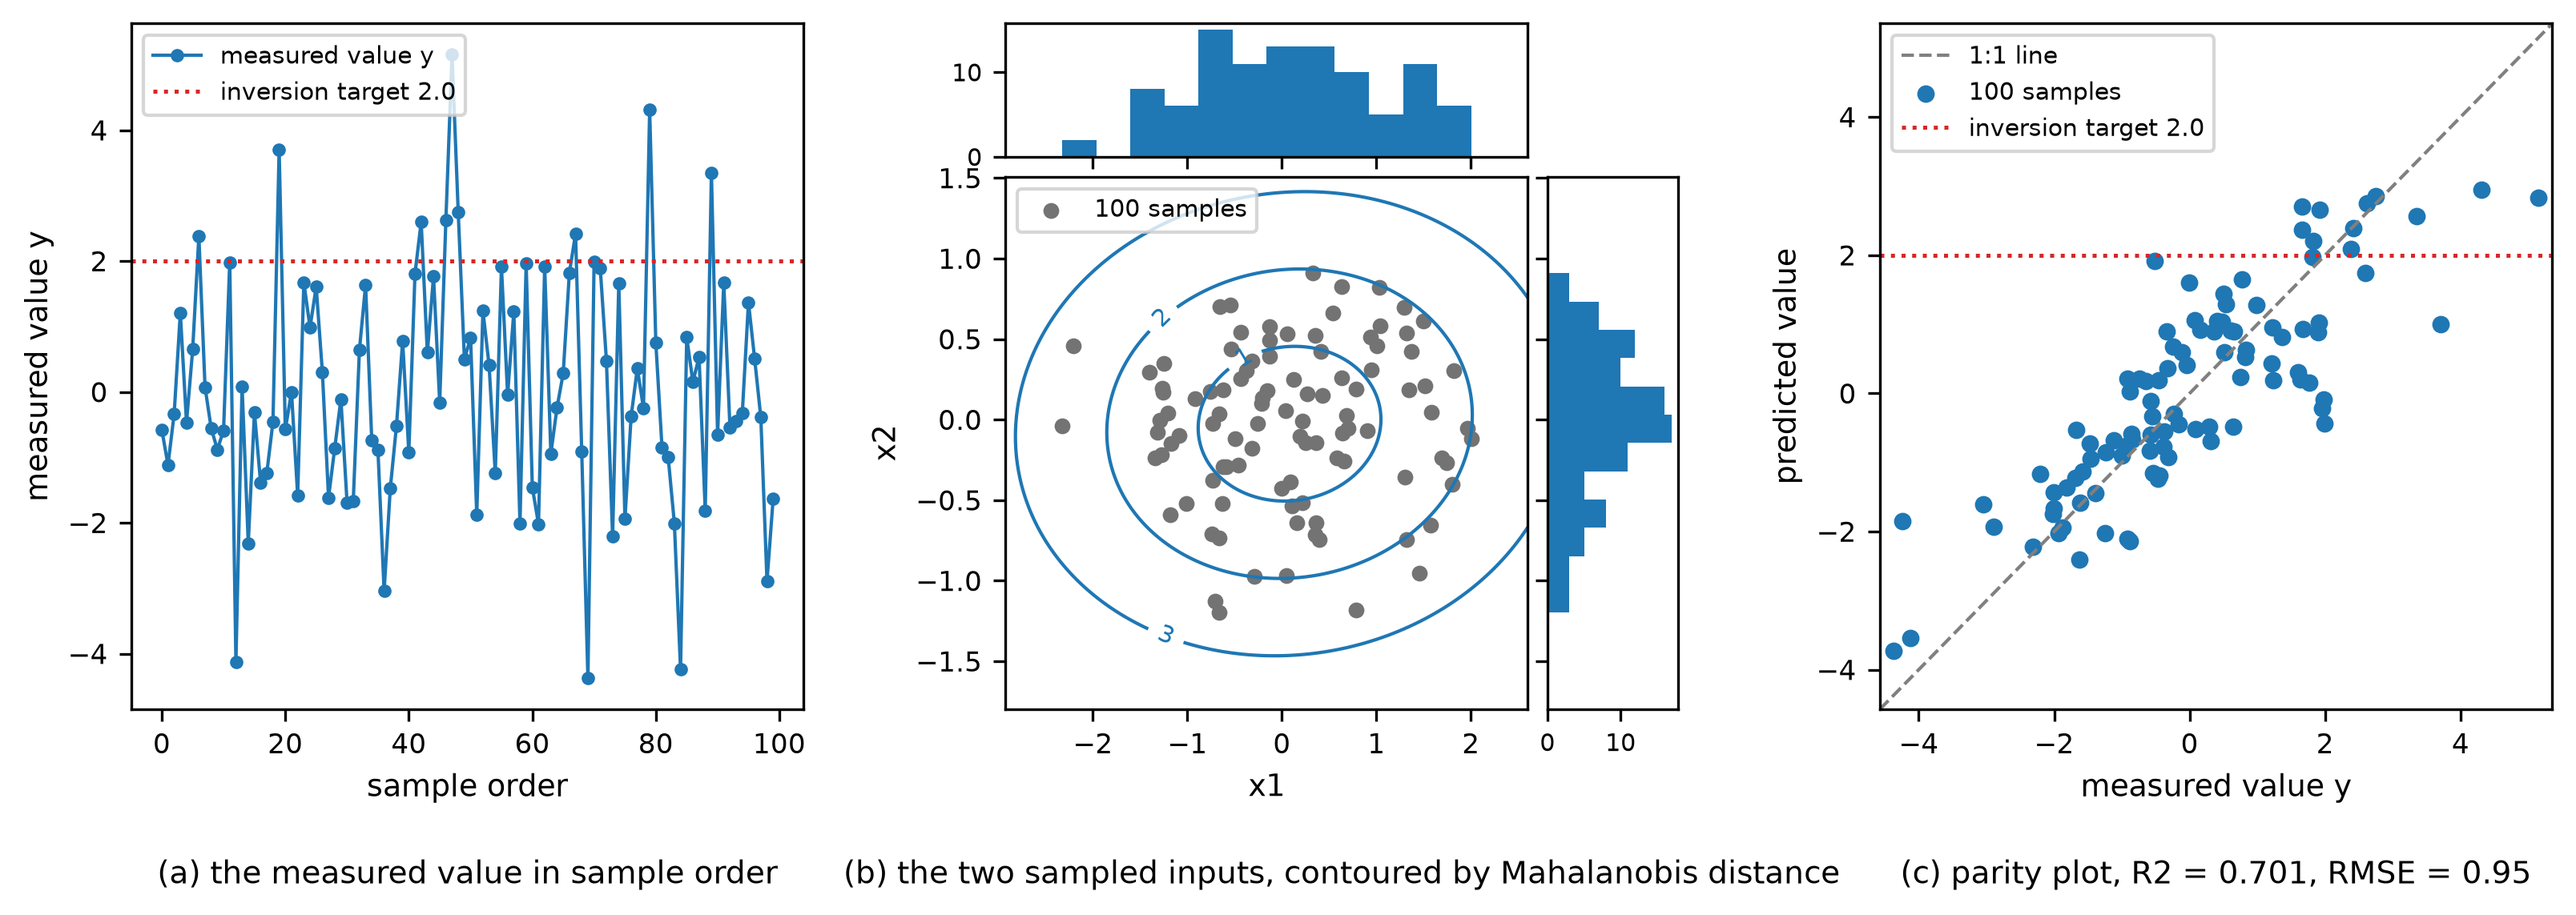
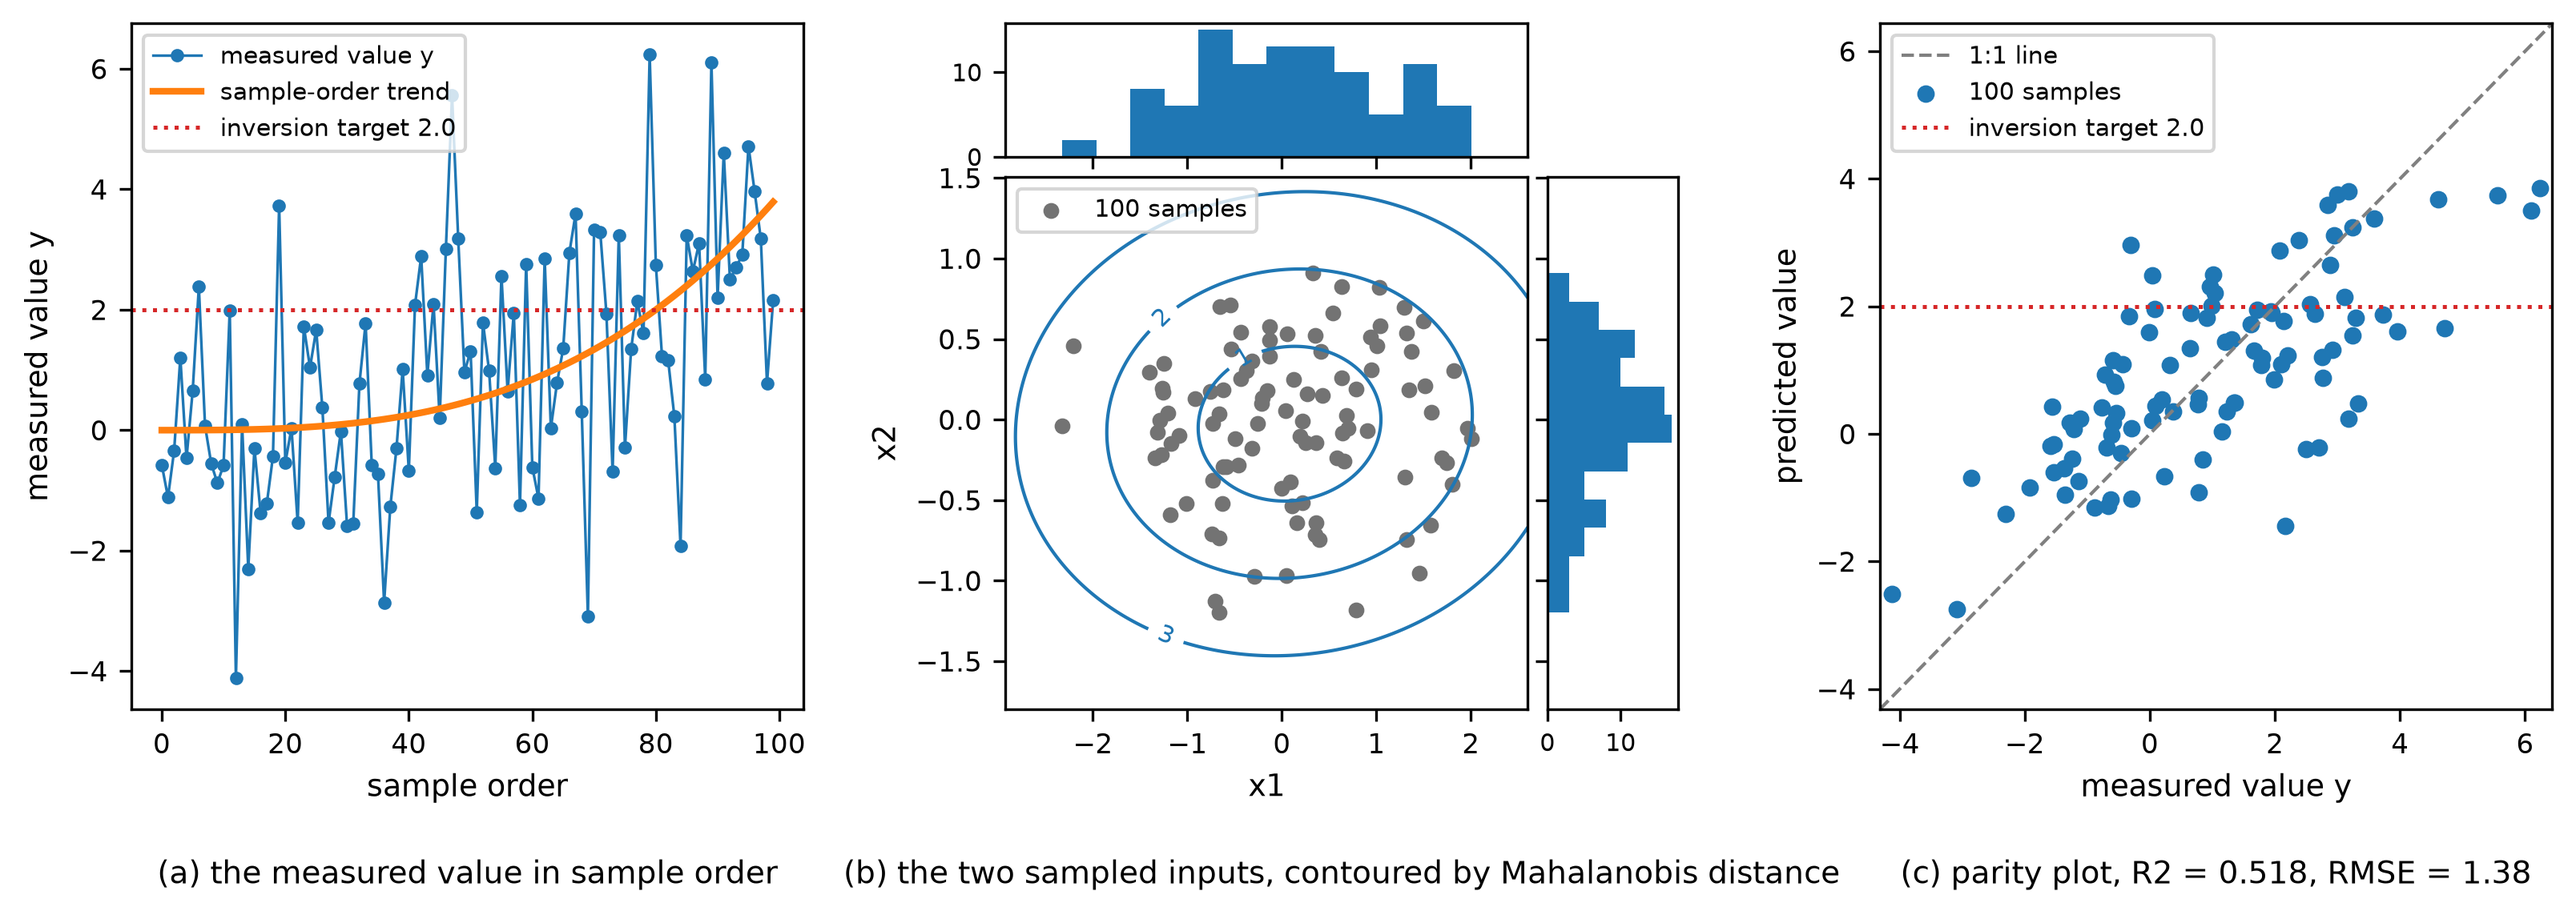
docs(Inversion-Problem): let the measured value drift with the sample order
The series was flat noise and said nothing. It now climbs with the cube of
the sample order, crossing the inversion target around sample 80, and the
trend is drawn over it. The inputs carry no such term, so the drift lands
in the residual and the parity plot falls to R2 0.518 — which is the point
the paragraph beside it now makes. Fig 4 and Fig 5 render 800 px wide.

diff --git a/Models/Inversion-Problem/inversion_problem_fig.py b/Models/Inversion-Problem/inversion_problem_fig.py
@@ -1,6 +1,6 @@
 """Draw the Appendix B and Appendix C figures of inversion-problem.md."""
 __author__ = 'yRocket'
-__version__ = "0.5.0.2026.8.29"  # Semantic Versioning: Major.Minor.Patch.Date(YYYY.M.D)
+__version__ = "0.6.0.2026.8.29"  # Semantic Versioning: Major.Minor.Patch.Date(YYYY.M.D)
 
 import argparse
 import pathlib
@@ -41,21 +41,26 @@ def panel_caption(fig, axes_group: list, text: str, y: float = 0.02) -> None:
 
 
 def build_appendix_b_model() -> tuple:
-    """Rebuild the Appendix B data and PLS model. Returns (x_data, y_data, x_mean, y_mean, pls)."""
+    """Rebuild the Appendix B data and PLS model.
+
+    Returns (x_data, y_data, drift, x_mean, y_mean, pls). drift is the part of y that follows
+    the sample order, which the model never sees.
+    """
     rng = np.random.default_rng(0)
     n, n_comp = 100, 2
     # both inputs are centred at 0, x1 spread twice as wide as x2
     x_data = np.column_stack([rng.normal(0.0, 1.0, n), rng.normal(0.0, 0.5, n)])
-    y_data = 1.5 * x_data[:, 0] - 0.8 * x_data[:, 1] + rng.normal(0, 0.85, n)
+    drift = 2.0 * (np.arange(n) / 80.0) ** 3          # reaches the target 2.0 at sample 80
+    y_data = 1.5 * x_data[:, 0] - 0.8 * x_data[:, 1] + drift + rng.normal(0, 0.85, n)
 
     x_mean, y_mean = x_data.mean(axis=0), y_data.mean()
     pls = PLSRegression(n_components=n_comp, scale=False).fit(x_data - x_mean, y_data - y_mean)
-    return x_data, y_data, x_mean, y_mean, pls
+    return x_data, y_data, drift, x_mean, y_mean, pls
 
 
 def fig_3(out_folder: pathlib.Path) -> pathlib.Path:
     """Fig 3: the measured values, the sampled inputs and the parity plot of the forward model."""
-    x_data, y_data, x_mean, y_mean, pls = build_appendix_b_model()
+    x_data, y_data, drift, x_mean, y_mean, pls = build_appendix_b_model()
     y_pred = pls.predict(x_data - x_mean).ravel() + y_mean
     residual = y_data - y_pred
     r2 = 1.0 - float(np.sum(residual ** 2) / np.sum((y_data - y_data.mean()) ** 2))
@@ -72,8 +77,10 @@ def fig_3(out_folder: pathlib.Path) -> pathlib.Path:
     ax_parity = fig.add_subplot(outer[2])
 
     # the measured value in the order the samples arrive
-    ax_series.plot(np.arange(len(y_data)), y_data, color=COLORS[0], linewidth=1.0,
-                   marker='o', markersize=3, label='measured value y')
+    order = np.arange(len(y_data))
+    ax_series.plot(order, y_data, color=COLORS[0], linewidth=0.8, marker='o', markersize=3,
+                   label='measured value y')
+    ax_series.plot(order, drift, color=COLORS[1], linewidth=2.0, label='sample-order trend')
     ax_series.axhline(2.0, color=COLORS[3], linestyle=':', linewidth=1.2,
                       label='inversion target 2.0')
     ax_series.set_xlabel('sample order', fontsize=font_size())
@@ -136,7 +143,7 @@ def fig_3(out_folder: pathlib.Path) -> pathlib.Path:
 
 def fig_4(out_folder: pathlib.Path) -> pathlib.Path:
     """Fig 4: scores moved along the null space keep the predicted value."""
-    x_data, y_data, x_mean, y_mean, pls = build_appendix_b_model()
+    x_data, y_data, drift, x_mean, y_mean, pls = build_appendix_b_model()
     loadings, y_loadings = pls.x_loadings_, pls.y_loadings_
 
     y_des = 2.0
